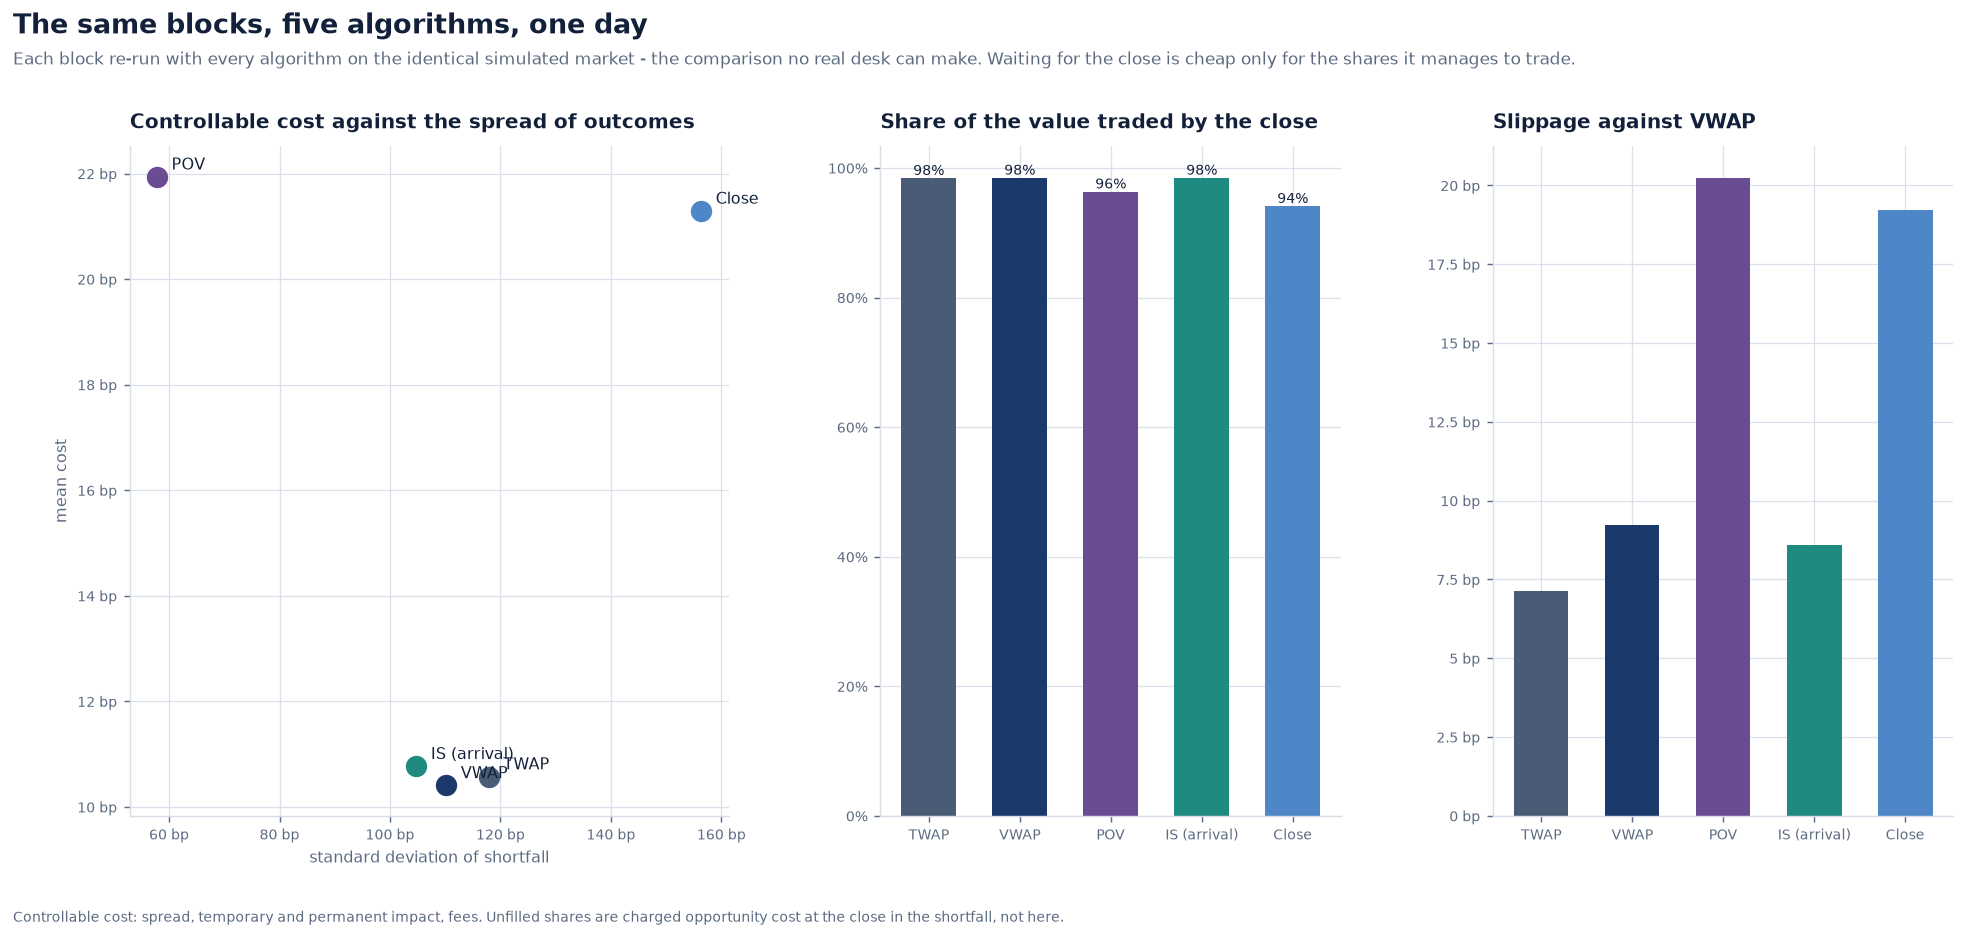
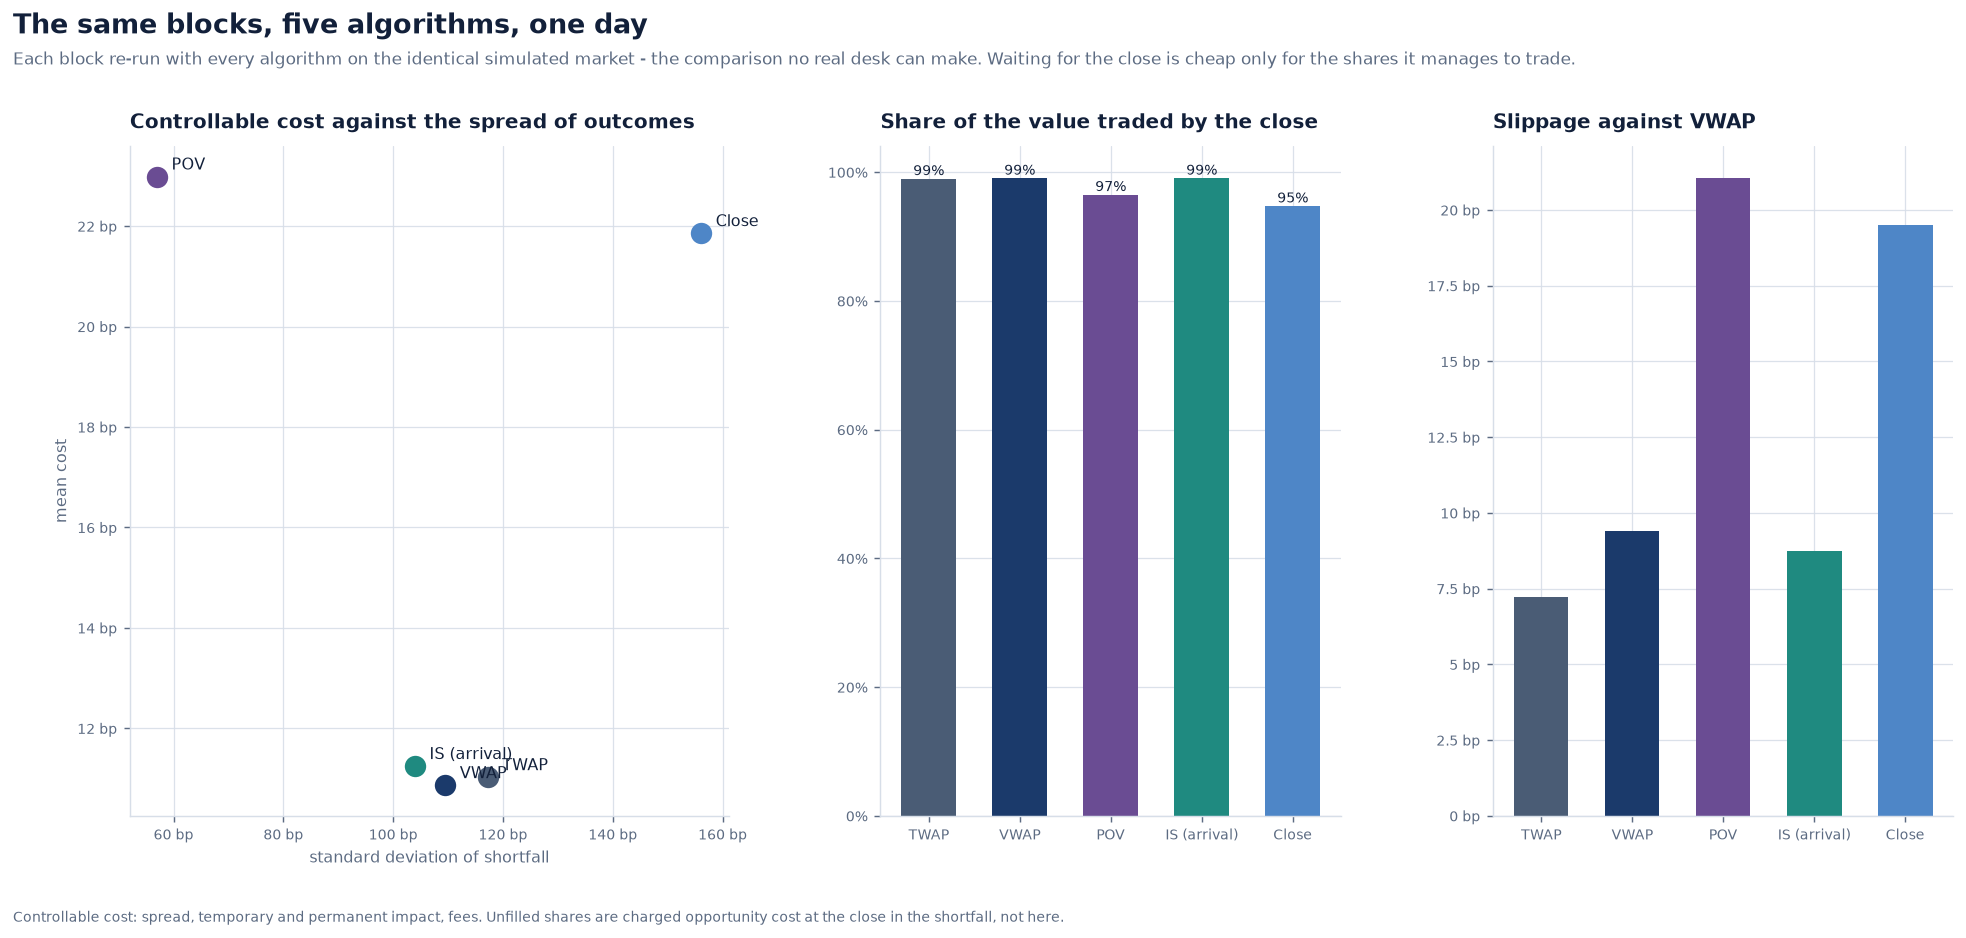
Redraw the execution and report charts, and add the revisit's six
The execution charts change with POV's rate and the cap; the client report's
pages with the figures it now reads from their sources.

diff --git a/docs/GALLERY.md b/docs/GALLERY.md
@@ -146,6 +146,14 @@ since July 1926, packaged with the code, and their daily returns since 1 July 19
 
 ![Two unrelated algorithms, one rebalance](images/solver-agreement.png)
 
+**Almgren and Chriss's own example, reproduced** - The paper's Table 1: trajectories, the frontier, and a conic solver's minimum beside the closed form.
+
+![Almgren and Chriss's own example, reproduced](images/almgren-chriss-paper.png)
+
+**Allocation, property-tested** - Random blocks against the pro-rata rule, and the block Day 8 could not allocate.
+
+![Allocation, property-tested](images/allocation-properties.png)
+
 ### Cashflows
 
 **Payment schedule** - Accrual periods, the stub, and the payments moved by the business-day rule.
@@ -755,6 +763,22 @@ since July 1926, packaged with the code, and their daily returns since 1 July 19
 **The trading blotter** - Every block of the day: algorithm, fill, slippage against arrival and shortfall.
 
 ![The trading blotter](images/trading-blotter.png)
+
+**Almgren-Chriss's 95% bound on a century of real prices** - How often a liquidation's cost broke the bound, decade by decade, and the autocorrelation behind it.
+
+![Almgren-Chriss's 95% bound on a century of real prices](images/century-liquidation-bound.png)
+
+**The cost of a liquidation is not normal** - The standardised cost of every week since 1927 against the normal and a random-walk control.
+
+![The cost of a liquidation is not normal](images/liquidation-cost-tails.png)
+
+**A POV order at its own rate** - Participation minute by minute, as Day 8 traded it and as it is traded now.
+
+![A POV order at its own rate](images/pov-participation.png)
+
+**A second reading of Day 8** - The figures the faults changed, before and after.
+
+![A second reading of Day 8](images/execution-review.png)
 
 ### Reporting
 
